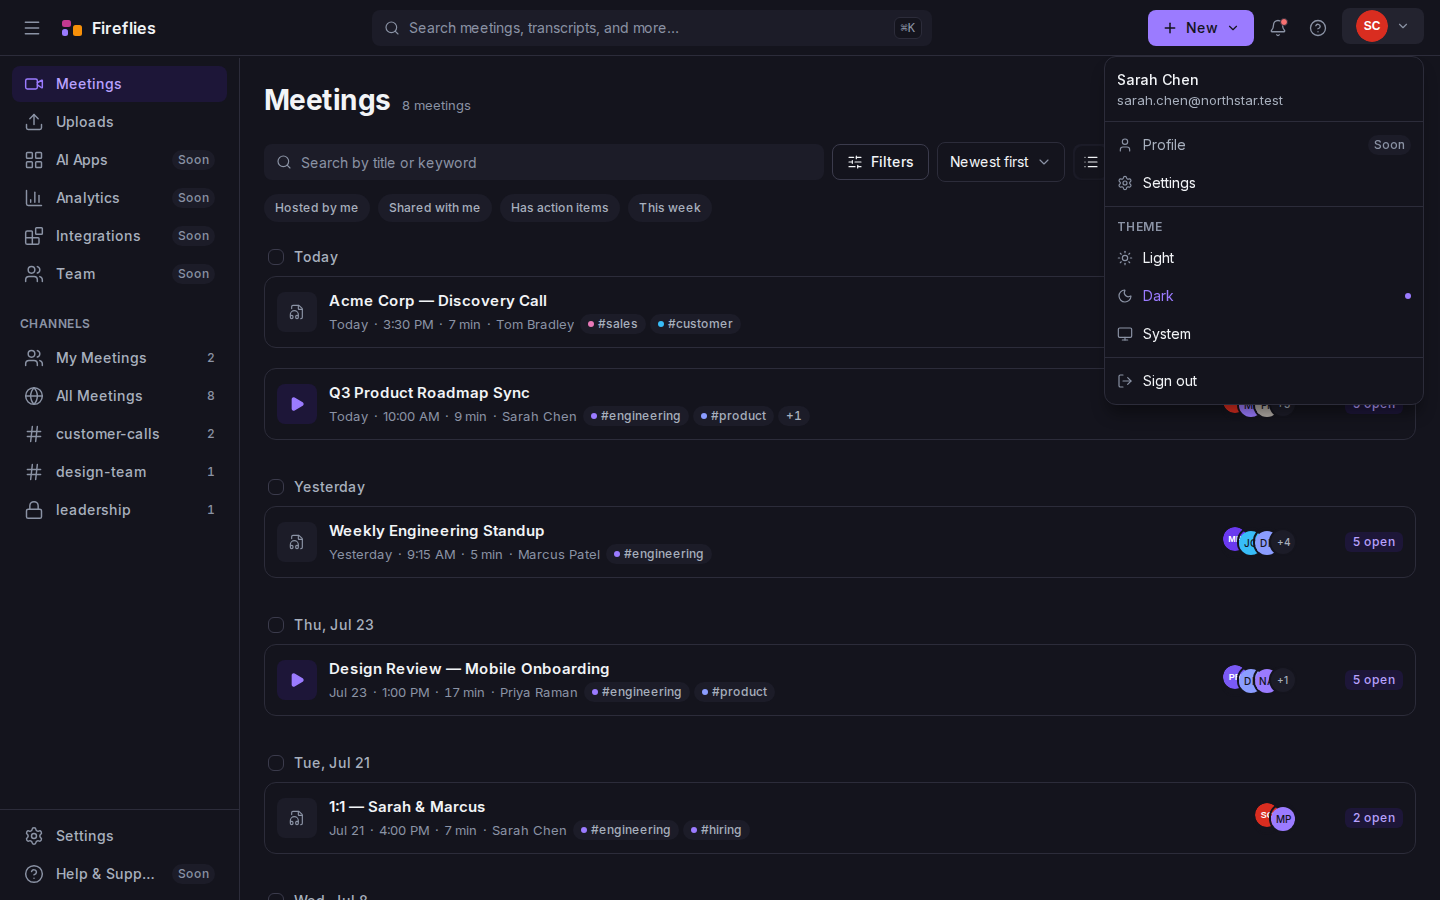
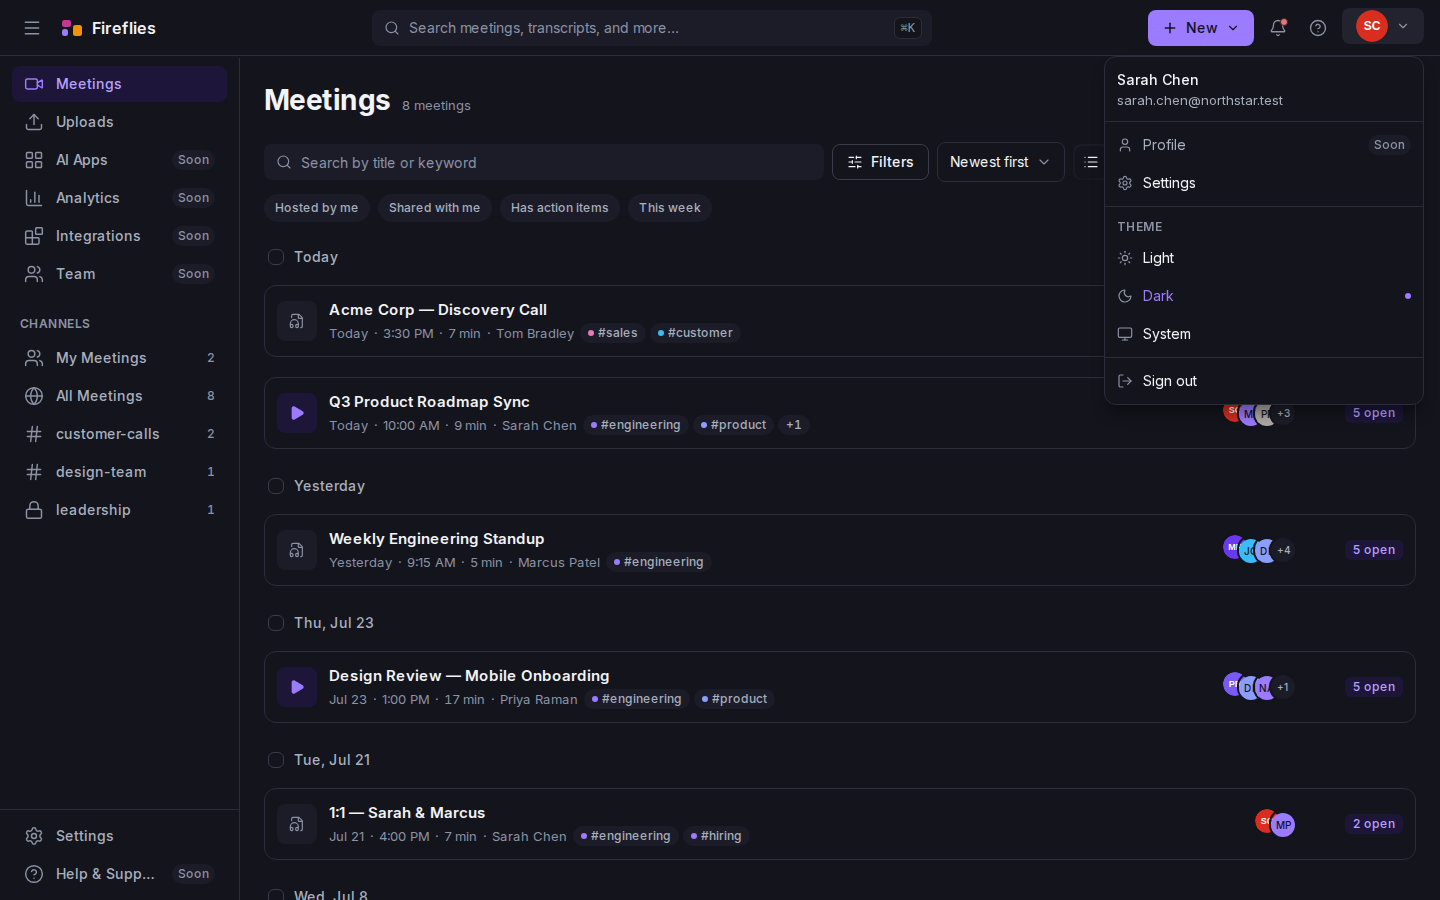
T-46.1: match how the reference distributes the date-group gap
ADR-149 matched the gap's total; this matches its distribution, which is a
separate property and was still wrong. Fireflies splits the run between two
cards straddling a date heading 0.52 / 0.18 / 0.31; ours was 0.64 / 0.21 /
0.16, so the heading read as attached to the card beneath it rather than
sitting between groups.

group-gap 36 -> 26px, plus a named heading-gap: 17px so the skeleton mirrors it
by name. Measured after: 0.500 / 0.212 / 0.303, with gap / card holding at
0.930 against the reference's 0.94 — ADR-149's match survived, which was the
constraint the change had to respect.

The heading's own share stays at 0.212 against their 0.18 on purpose: reaching
it needs a 78px total, which takes gap / card to 1.10, a worse miss on the more
visible property.

My first derivation said 28/18. It would have pushed the total to 70px and
taken gap / card to 0.986 — fixing the distribution by breaking the ratio that
had just been fixed. Re-deriving before typing the edit is the only reason that
did not ship.

Six baselines moved, the same six as ADR-149 and nothing else, which the plan
had named as the signal that the change stayed where it was aimed.

diff --git a/frontend/tailwind.config.ts b/frontend/tailwind.config.ts
@@ -265,7 +265,23 @@ const config: Config = {
         settings: '548px',
 
         'row-gap': '20px',
-        'group-gap': '36px',
+        /*
+         * 26/17, not 36/8. ADR-149 matched the group gap's TOTAL to the
+         * reference; this matches its DISTRIBUTION, which is a separate
+         * property and was still wrong. Fireflies splits the run between two
+         * cards straddling a date heading 0.52 / 0.18 / 0.31 (below card /
+         * heading / above next card); ours was 0.64 / 0.21 / 0.16, so the
+         * heading read as attached to the card beneath it rather than sitting
+         * between groups.
+         *
+         * Derived by holding the 67px total (that ratio is already correct at
+         * 0.944 against their 0.94) and the 14px glyph band (the type scale is
+         * already correct), then splitting the remaining 53px in their
+         * below:above ratio. A first attempt at 28/18 pushed the total to 70px
+         * and would have broken the ratio ADR-149 had just fixed.
+         */
+        'group-gap': '26px',
+        'heading-gap': '17px',
         'btn-sm': '32px',
         'btn-md': '36px',
         'btn-lg': '40px',

diff --git a/frontend/src/components/ui/skeleton.tsx b/frontend/src/components/ui/skeleton.tsx
@@ -140,7 +140,7 @@ export function MeetingListSkeleton({
       className="space-y-group-gap"
     >
       {groups.map((size, groupIndex) => (
-        <div key={groupIndex} className="space-y-2">
+        <div key={groupIndex} className="space-y-heading-gap">
           {/* The date heading, at the same height as the real one. */}
           <div className="flex items-center gap-2.5 px-1">
             <Skeleton variant="rect" className="h-4 w-4 shrink-0" />

diff --git a/frontend/src/features/notebook/notebook-view.tsx b/frontend/src/features/notebook/notebook-view.tsx
@@ -634,7 +634,7 @@ function GroupedList({
         const someSelected = groupIds.some((id) => selection.isSelected(id))
 
         return (
-          <section key={group.key} className="space-y-2">
+          <section key={group.key} className="space-y-heading-gap">
             {group.label && (
               <div className="flex items-center gap-2.5 px-1">
                 <Checkbox

diff --git a/docs/ui-audit.md b/docs/ui-audit.md
@@ -112,11 +112,27 @@ Ours just overdoes it: their ratio of the two gaps is 1.7:1, ours is 3.9:1, so
 our heading reads as attached to the following card rather than floating between
 groups.
 
-At our 67px group gap the reference's split works out to roughly 28px above the
-heading (`group-gap`) and 18px below it (the section's `space-y-2`), against the
-36px and 8px we have. Queued rather than applied: it landed mid-verification and
-is a smaller effect than the two spacing fixes already made, so it belongs in the
-next batch with the settings card anatomy rather than as a fourth interruption.
+**Fixed** — `group-gap: 26px` and a new `heading-gap: 17px`, measured after:
+
+| | below card | heading | above next card |
+|---|---|---|---|
+| Fireflies | 0.520 | 0.180 | 0.310 |
+| Ours now | **0.500** | 0.212 | **0.303** |
+| Ours before | 0.640 | 0.210 | 0.160 |
+
+Both gaps land within 0.02 of the reference, and the gap-to-card ratio held at
+0.930 against their 0.94 — ADR-149's match survived, which was the constraint.
+
+The heading's own share stays at 0.212 against their 0.18, deliberately.
+Reaching 0.18 needs a 78px total, which puts gap ÷ card at 1.10 — a worse miss
+on the more visible property. Our heading band is proportionally taller relative
+to the gap than theirs, and that cannot be closed from the gap side.
+
+Worth recording that the first derivation was wrong: 28/18 looked right and
+would have pushed the total to 70px, taking gap ÷ card to 0.986 and quietly
+undoing half of ADR-149 while fixing the distribution. Fixing one ratio by
+breaking the one already matched is not a fix, and the only thing that caught it
+was re-deriving the arithmetic before typing the edit.
 
 **The row height is deliberately still 1.29 against their 1.51.** Matching it
 means 72px → ~85px, and that token is load-bearing in a way the gaps are not:
